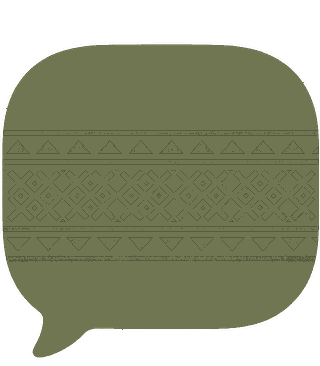
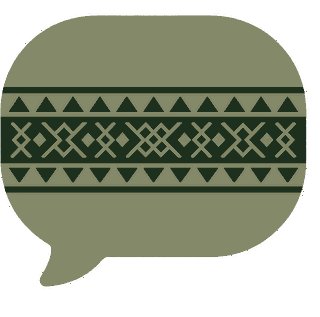
Let the empty screens say something
Half a dozen screens said nothing when they had nothing: a greyed lucide
icon over two lines of muted text, written out separately each time with
the icon, the sizes and the text colours all slightly different. The icon
was doing the least useful work of anything on screen — a faded heart
above "No liked videos yet" only repeats the sentence underneath it.

EmptyState puts a sadu bubble there instead, which says the thing the
sentence cannot: that this is Hakiya, and that the screen is waiting
rather than broken. Six states move onto it — liked videos twice,
leaderboard, friends twice, discover, souq news — and the copy is tidied
on the way past, since several were writing at the learner with an
exclamation mark.

Two are deliberately left alone. Mistakes shows a tick over "Nothing
outstanding", which is a clean record rather than an empty list, and a
bubble would throw away the congratulation. The analytics chart's is
inside a fixed 40-unit box that a bubble would not fit.

The olive and charcoal artwork is regenerated, because at the size an
empty state wants it the weave had faded to nothing — the same
under-contrast the ivory needed fixing for, and the reason the band is now
specified as much darker rather than merely darker.

Claude-Session: https://claude.ai/code/session_019Gu1ozhJRGXVVBgKrLGpNq

diff --git a/src/pages/LikedVideos.tsx b/src/pages/LikedVideos.tsx
@@ -12,6 +12,7 @@ import { VideoThumbnail } from "@/components/media/VideoThumbnail";
 import type { DiscoverVideo } from "@/hooks/useDiscoverVideos";
 import { InfoHint } from "@/components/InfoHint";
 import { PAGE_HINTS } from "@/lib/pageHints";
+import { EmptyState } from "@/components/shared/EmptyState";
 
 const LikedVideoCard = ({
   video,
@@ -85,13 +86,11 @@ const LikedVideos = () => {
     return (
       <AppShell>
         <PageCorner />
-        <div className="py-12 text-center">
-          <Heart className="h-12 w-12 text-muted-foreground/30 mx-auto mb-4" />
-          <h2 className="text-lg font-semibold text-foreground mb-2">
-            Sign in to see liked videos
-          </h2>
-          <Button onClick={() => navigate("/auth")}>Sign In</Button>
-        </div>
+        <EmptyState
+          title="Sign in to see liked videos"
+          body="Your saved videos follow your account."
+          action={<Button onClick={() => navigate("/auth")}>Sign In</Button>}
+        />
       </AppShell>
     );
   }
@@ -132,17 +131,16 @@ const LikedVideos = () => {
             ))}
           </div>
         ) : (
-          <div className="text-center py-12">
-            <Heart className="h-12 w-12 text-muted-foreground/30 mx-auto mb-3" />
-            <p className="text-muted-foreground">No liked videos yet</p>
-            <p className="text-sm text-muted-foreground/70 mb-4">
-              Tap the ❤ on any video to save it here
-            </p>
-            <Button onClick={() => navigate("/discover")}>
-              <Play className="h-4 w-4 mr-2" />
-              Browse Videos
-            </Button>
-          </div>
+          <EmptyState
+            title="No liked videos yet"
+            body="Tap the heart on any video to keep it here."
+            action={
+              <Button onClick={() => navigate("/discover")}>
+                <Play className="h-4 w-4 mr-2" />
+                Browse Videos
+              </Button>
+            }
+          />
         )}
       </div>
     </AppShell>

diff --git a/src/pages/Friends.tsx b/src/pages/Friends.tsx
@@ -52,6 +52,7 @@ import {
 } from "lucide-react";
 import { formatDuration } from "@/lib/videoEmbed";
 import type { DiscoverVideo } from "@/hooks/useDiscoverVideos";
+import { EmptyState } from "@/components/shared/EmptyState";
 
 const LikedVideoCard = ({
   video,
@@ -586,16 +587,11 @@ const Friends = () => {
     return (
       <AppShell>
         <PageCorner />
-        <div className="py-12 text-center">
-          <Users className="h-12 w-12 text-muted-foreground/30 mx-auto mb-4" />
-          <h2 className="text-lg font-semibold text-foreground mb-2">
-            Sign in to see friends
-          </h2>
-          <p className="text-muted-foreground mb-4">
-            Follow other learners and challenge them!
-          </p>
-          <Button onClick={() => navigate("/auth")}>Sign In</Button>
-        </div>
+        <EmptyState
+          title="Sign in to see friends"
+          body="Follow other learners and challenge them."
+          action={<Button onClick={() => navigate("/auth")}>Sign In</Button>}
+        />
       </AppShell>
     );
   }
@@ -708,15 +704,11 @@ const Friends = () => {
                 />
               ))
             ) : (
-              <div className="text-center py-8">
-                <UserPlus className="h-10 w-10 text-muted-foreground/30 mx-auto mb-3" />
-                <p className="text-muted-foreground">
-                  You're not following anyone yet
-                </p>
-                <p className="text-sm text-muted-foreground/70">
-                  Search for users above to start following!
-                </p>
-              </div>
+              <EmptyState
+                className="py-8"
+                title="You're not following anyone yet"
+                body="Search above to find other learners."
+              />
             )}
           </div>
         )}

diff --git a/src/components/shared/EmptyState.tsx b/src/components/shared/EmptyState.tsx
@@ -1,0 +1,44 @@
+import type { ReactNode } from "react";
+import { SaduBubble, type SaduBubbleTone } from "@/components/brand/SaduBubble";
+import { cn } from "@/lib/utils";
+
+/**
+ * What a screen says when it has nothing to show yet.
+ *
+ * These were a scattered pattern before — a large faded lucide icon over two
+ * lines of muted text, repeated a couple of dozen times with the icon, the
+ * sizes and the text colours all slightly different each time. The icon was
+ * doing the least useful work: a greyed heart above "No liked videos yet" only
+ * says again what the sentence already said.
+ *
+ * A sadu bubble says something the sentence cannot — that this is Hakiya, and
+ * that the screen is waiting rather than broken. It is the same mark everywhere
+ * on purpose; the tone is the only thing that varies, and only where a screen
+ * has a reason to feel different.
+ */
+export function EmptyState({
+  title,
+  body,
+  action,
+  tone = "olive",
+  className,
+}: {
+  title: string;
+  /** One line on how to make the emptiness go away. */
+  body?: ReactNode;
+  /** A way out — usually the button that starts the thing. */
+  action?: ReactNode;
+  tone?: SaduBubbleTone;
+  className?: string;
+}) {
+  return (
+    <div className={cn("flex flex-col items-center px-6 py-12 text-center", className)}>
+      <SaduBubble tone={tone} className="mb-3 h-16 w-auto" />
+      <p className="text-sm font-medium text-foreground">{title}</p>
+      {body && (
+        <p className="mt-1 max-w-xs text-[13px] leading-relaxed text-muted-foreground">{body}</p>
+      )}
+      {action && <div className="mt-4">{action}</div>}
+    </div>
+  );
+}

diff --git a/src/pages/SouqNews.tsx b/src/pages/SouqNews.tsx
@@ -27,6 +27,7 @@ import { InfoHint } from "@/components/InfoHint";
 import { PAGE_HINTS } from "@/lib/pageHints";
 import { AskAISentence } from "@/components/shared/AskAISentence";
 import { usePageAiContext } from "@/contexts/AiAssistantContext";
+import { EmptyState } from "@/components/shared/EmptyState";
 
 interface SouqArticle {
   title_dialect: string;
@@ -197,10 +198,10 @@ const SouqNews = () => {
           <Button onClick={() => refetch()}>Try Again</Button>
         </div>
       ) : articles && articles.length === 0 ? (
-        <div className="text-center py-12">
-          <Newspaper className="h-12 w-12 text-muted-foreground/30 mx-auto mb-4" />
-          <p className="text-muted-foreground">No news found for today. Check back later!</p>
-        </div>
+        <EmptyState
+          title="No news today"
+          body="Fresh articles arrive most mornings — check back later."
+        />
       ) : (
         <div className="space-y-4">
           {articles?.map((article, i) => {

diff --git a/src/pages/Discover.tsx b/src/pages/Discover.tsx
@@ -25,6 +25,7 @@ import {
   type Comprehension,
 } from "@/lib/comprehension";
 import { Tabs, TabsList, TabsTrigger, TabsContent } from "@/components/ui/tabs";
+import { EmptyState } from "@/components/shared/EmptyState";
 import {
   Select,
   SelectContent,
@@ -249,13 +250,10 @@ const Discover = () => {
               ))}
             </div>
           ) : (
-            <div className="text-center py-16">
-              <Sparkles className="h-12 w-12 text-muted-foreground/30 mx-auto mb-4" />
-              <p className="text-muted-foreground">No personalized picks yet</p>
-              <p className="text-sm text-muted-foreground/70 mt-1">
-                Watch a few videos and save vocab to power your feed.
-              </p>
-            </div>
+            <EmptyState
+              title="No personalised picks yet"
+              body="Watch a few videos and save some vocab, and this fills up."
+            />
           )}
         </TabsContent>
 

diff --git a/src/pages/Leaderboard.tsx b/src/pages/Leaderboard.tsx
@@ -34,6 +34,7 @@ import {
   LeaderboardEntry,
 } from "@/hooks/useLeaderboard";
 import { cn } from "@/lib/utils";
+import { EmptyState } from "@/components/shared/EmptyState";
 import { toast } from "sonner";
 import {
   Trophy,
@@ -373,13 +374,10 @@ const Leaderboard = () => {
               />
             ))
           ) : (
-            <div className="text-center py-12">
-              <Trophy className="h-12 w-12 text-muted-foreground/30 mx-auto mb-3" />
-              <p className="text-muted-foreground">No rankings yet</p>
-              <p className="text-sm text-muted-foreground/70">
-                Start learning to appear on the leaderboard!
-              </p>
-            </div>
+            <EmptyState
+              title="No rankings yet"
+              body="Finish a lesson or a review and you will show up here."
+            />
           )}
         </div>
 
